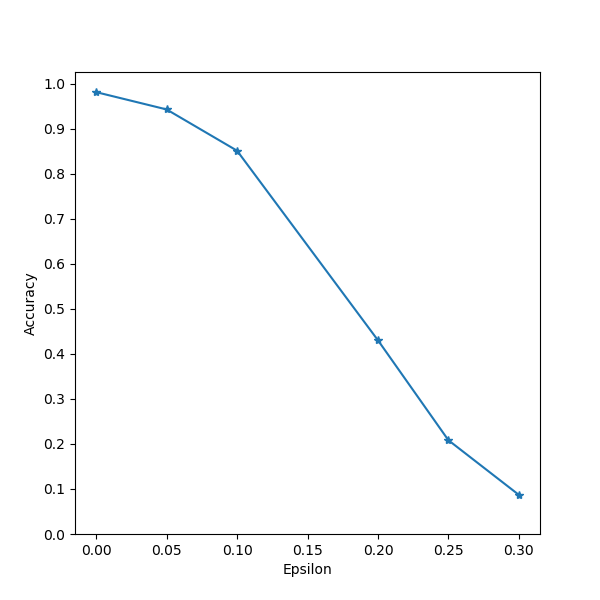
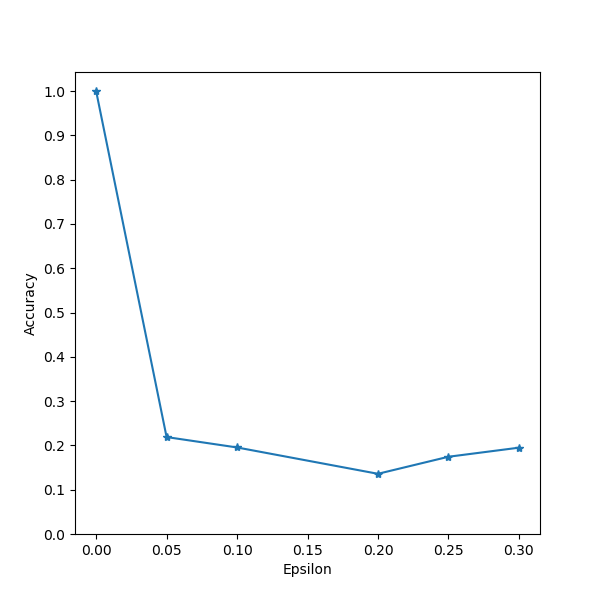
update src

diff --git a/FGSM/test.py b/FGSM/test.py
@@ -2,15 +2,52 @@ import torch.nn.functional as F
 
 from data import *
 from fgsm import *
+from model import *
 
 MAX_ADV_EX_NUM = 10
+TEST_SIZE = 2000
 
 # Test stuff
-def test(model, device, test_loader, epsilon):
-    correct_counter = 0
+def test(model, test_loader):
+    model.eval()
+    correct_num = 0
+    total_loss = 0
+    iterations = 0
+    total_samples = 0
+
+    for data, label in test_loader:
+        if iterations > TEST_SIZE:
+            break;
+        data, label = data.to(device), label.to(device)
+        output = model(data)
+        _, preds = torch.max(output, 1)
+        loss = nn.CrossEntropyLoss()(output, label)
+
+        total_loss += loss.item() * data.size(0)
+        correct_num += torch.sum(preds == label.data)
+
+        iterations += 1
+        total_samples += len(data)
+    
+    # avg_loss = total_loss / len(test_loader.dataset)
+    # accuracy = correct_num.double() / len(test_loader.dataset)
+    avg_loss = total_loss / float(total_samples)
+    accuracy = correct_num.double() / float(total_samples)
+    print("#" * 40)
+    print('Test\tLoss: {:.4f}\tAccuracy: {:.4f}'.format(avg_loss, accuracy))
+    print("#" * 40)
+
+
+def attack(model, test_loader, epsilon):
+    model.eval()
+    correctly_defended = 0
     adversarial_examples = []
+    iterations = 0
+    total_samples = 0
 
     for data, target in test_loader:
+        if iterations > TEST_SIZE:
+            break
         data, target = data.to(device), target.to(device)
         data.requires_grad = True
 
@@ -20,7 +57,7 @@ def test(model, device, test_loader, epsilon):
         if init_pred.item() != target.item():
             continue
 
-        loss = F.nll_loss(output, target)
+        loss = F.cross_entropy(output, target)
         model.zero_grad()
         loss.backward()
 
@@ -31,13 +68,18 @@ def test(model, device, test_loader, epsilon):
         final_pred = output_again.max(1, keepdim=True)[1]
 
         if final_pred.item() == target.item():
-            correct_counter += 1
+            correctly_defended += 1
         else:
             if len(adversarial_examples) < MAX_ADV_EX_NUM:
                 adversarial_example = perturbed_data.squeeze().detach().cpu().numpy()
                 adversarial_examples.append(adversarial_example)
         
-    final_accuracy = correct_counter / float(len(test_loader))
-    print("Epsilon: {}\tTest Accuracy: {} / {} = {}".format(epsilon, correct_counter, len(test_loader), final_accuracy))
+        iterations += 1
+        total_samples += len(data)
+
+    # final_accuracy = correctly_defended / float(len(test_loader))
+    final_accuracy = correctly_defended / float(total_samples)
+    print("Epsilon: {}\tAccuracy after attack: {} / {} = {}".format(epsilon, correctly_defended, total_samples, final_accuracy))
+    # print("Epsilon: {}\tAccuracy after attack: {} / {} = {}".format(epsilon, correctly_defended, len(test_loader), final_accuracy))
 
     return final_accuracy, adversarial_examples

diff --git a/FGSM/main.py b/FGSM/main.py
@@ -1,34 +1,62 @@
-from model import *
 from data import *
+from model import *
+from train import *
 from test import *
 
 import matplotlib.pyplot as plt
+import numpy as np
 from PIL import Image
+
+import argparse
+
 
 plt.rcParams['figure.figsize'] = (6.0, 6.0)
 plt.rcParams['image.interpolation'] = 'nearest'
 plt.rcParams['image.cmap'] = 'gray'
 
+epsilons = [0, 0.05, 0.1, 0.2, 0.25, 0.3]
+accuracies = []
+model_name = "alexnet"
+num_classes = 10
+num_epochs = 10
+feature_extract = True
 path = "./examples/"
 
+parser = argparse.ArgumentParser()
+parser.add_argument("--model", type=str)
+args = parser.parse_args()
+
 print("CUDA Available: ", torch.cuda.is_available())
-device = torch.device("cuda" if (use_cuda and torch.cuda.is_available()) else "cpu")
+if str(device) == "cuda":
+    print("Using device: CUDA")
+else:
+    print("Using device: cpu")
 
+alexnet, input_size = initialize_alexnet(num_classes, feature_extract)
+# print(alexnet)
+alexnet = alexnet.to(device)
 
-lenet = LeNet().to(device)
-lenet.load_state_dict(torch.load(pretrained_model, map_location='cpu'))
-lenet.eval()
+params_to_update = []
+for name, param in alexnet.named_parameters():
+    if param.requires_grad == True:
+        params_to_update.append(param)
 
-accuracies, adv_exs = [], []
+if args.model == None:
+    optimizer = optim.SGD(params_to_update, lr=0.002, momentum=0.9)
+    alexnet_ft = train(alexnet, train_loader, optimizer, num_epochs=num_epochs)
+    torch.save(alexnet_ft.state_dict(), "./model_alexnet.pkl")
+else:
+    alexnet_ft = alexnet
+    alexnet_ft.load_state_dict(torch.load(args.model))
+
+test(alexnet_ft, test_loader)
+
 for eps in epsilons:
-    acc, ex = test(lenet, device, test_loader, eps)
+    acc, exs = attack(alexnet_ft, test_loader, eps)
     accuracies.append(acc)
-    adv_exs.append(ex)
-    if len(ex) != 0:
-        for i in range(len(ex)):
-            plt.imsave(path + "ex_" + str(eps) + "_" + str(i) + ".png", ex[i])
-    print("Adversarial examples saved to " + path)
- 
+    for i in range(len(exs)):
+        plt.imsave("./examples/" + str(eps) + "_" + str(i) + ".png", np.transpose(exs[i], (1, 2, 0)))
+
 
 plt.plot(epsilons, accuracies, "*-")
 plt.yticks(np.arange(0, 1.1, step=0.1))

diff --git a/FGSM/model.py b/FGSM/model.py
@@ -3,33 +3,26 @@ import torch.nn as nn
 import torch.nn.functional as F
 import torch.optim as optim
 
-from torchvision import datasets, transforms
+from torchvision import datasets, transforms, models
 
 import numpy as np
 import matplotlib.pyplot as plt
 
-
-epsilons = [0, 0.05, 0.1, 0.2, 0.25, 0.3]
-pretrained_model = "lenet_mnist_model.pth"
 use_cuda = True
+device = torch.device("cuda" if (use_cuda and torch.cuda.is_available()) else "cpu")
 
-# LeNet-5 Model
-class LeNet(nn.Module):
-    def __init__(self):
-        super(LeNet, self).__init__()
-        self.conv1 = nn.Conv2d(1, 10, kernel_size=5)
-        self.conv2 = nn.Conv2d(10, 20, kernel_size=5)
-        self.conv2_drop = nn.Dropout2d()
-        self.fc1 = nn.Linear(320, 50)
-        self.fc2 = nn.Linear(50, 10)
 
-    def forward(self, x):
-        y_ = x
-        y_ = F.relu(F.max_pool2d(self.conv1(y_), 2))
-        y_ = F.relu(F.max_pool2d(self.conv2_drop(self.conv2(y_)), 2))
-        y_ = y_.view(-1, 320)  # fully connected strench
-        y_ = F.relu(self.fc1(y_))
-        y_ = F.dropout(y_, training=self.training)
-        y_ = self.fc2(y_)
-        return F.log_softmax(y_, dim=1)
+def set_parameter_requires_grad(model, feature_extract):
+    if feature_extract:
+        for param in model.parameters():
+            param.requires_grad = False
 
+
+def initialize_alexnet(num_classes, feature_extract):
+    alexnet_ft = models.alexnet(pretrained=True)
+    set_parameter_requires_grad(alexnet_ft, feature_extract)
+    num_ftrs = alexnet_ft.classifier[6].in_features
+    alexnet_ft.classifier[6] = nn.Linear(num_ftrs, num_classes)
+    input_size = 224  # for ImageNet requirement
+
+    return alexnet_ft, input_size

diff --git a/FGSM/data.py b/FGSM/data.py
@@ -1,11 +1,40 @@
 import torch
-
 from torchvision import datasets, transforms
 
-test_loader = torch.utils.data.DataLoader(
-    datasets.MNIST("./datasets", train=False, download=True,
-    transform=transforms.Compose([
+import os
+
+
+input_size = 224
+
+data_transforms = {
+    'train': transforms.Compose([
+        transforms.Resize(input_size),
+        # transforms.RandomResizedCrop(input_size),
+        transforms.Grayscale(3),
         transforms.ToTensor(),
-        ])),
-    batch_size=1, shuffle=True)
-       
+        # transforms.Normalize([0.485, 0.456, 0.406], [0.229, 0.224, 0.225])
+    ]),
+    'val': transforms.Compose([
+        transforms.Resize(input_size),
+        # transforms.CenterCrop(input_size),
+        transforms.Grayscale(3),
+        transforms.ToTensor(),
+        # transforms.Normalize([0.485, 0.456, 0.406], [0.229, 0.224, 0.225])
+    ])
+}
+ 
+# train_datasets = datasets.ImageFolder(os.path.join(data_dir, "train"), data_transforms["train"])
+# test_datasets = datasets.ImageFolder(os.path.join(data_dir, "val"), data_transforms["val"])
+# 
+# train_loader = torch.utils.data.DataLoader(train_datasets, batch_size=16, shuffle=True)
+# test_loader = torch.utils.data.DataLoader(test_datasets, batch_size=1, shuffle=True)
+
+train_loader = torch.utils.data.DataLoader(
+    datasets.MNIST('./datasets/', train=True, download=True, transform=data_transforms['train']),
+        batch_size=16, shuffle=True
+)
+
+test_loader = torch.utils.data.DataLoader(
+    datasets.MNIST('./datasets/', train=False, download=True, transform=data_transforms['val']),
+        batch_size=1, shuffle=True
+)

diff --git a/FGSM/train.py b/FGSM/train.py
@@ -1,0 +1,46 @@
+from model import *
+
+TRAIN_SIZE = 200
+
+def train(model, train_loader, optimizer, num_epochs=20):
+    for epoch in range(num_epochs):
+        print("Epoch {} / {}".format(epoch, num_epochs - 1))
+
+        model.train()
+        running_loss = 0.0
+        correct_num = 0
+        iterations = 0
+        total_samples = 0
+        print(len(train_loader))
+
+        for data, label in train_loader:
+            if iterations > TRAIN_SIZE:
+                break
+            if iterations % 20 == 0:
+                print("Iter: %d" % iterations)
+
+            data = data.to(device)
+            label = label.to(device)
+            optimizer.zero_grad()
+
+            output = model(data)
+            loss = nn.CrossEntropyLoss()(output, label)
+
+            _, preds = torch.max(output, 1)
+
+            loss.backward()
+            optimizer.step()
+            
+            running_loss += loss.item() * data.size(0)
+            correct_num += torch.sum(preds == label.data)
+
+            iterations += 1
+            total_samples += len(data)
+
+        # epoch_loss = running_loss / len(train_loader.dataset)
+        # epoch_accuracy = correct_num.double() / len(train_loader.dataset)
+        epoch_loss = running_loss / total_samples
+        epoch_accuracy = correct_num.double() / total_samples
+        print('Train\tLoss: {:.4f}\tAccuracy: {:.4f}'.format(epoch_loss, epoch_accuracy)) 
+        
+    return model
